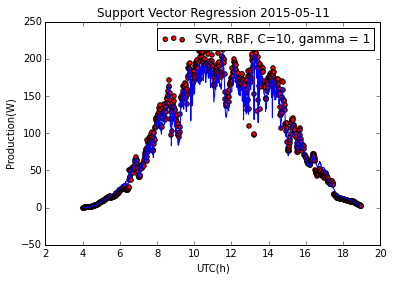
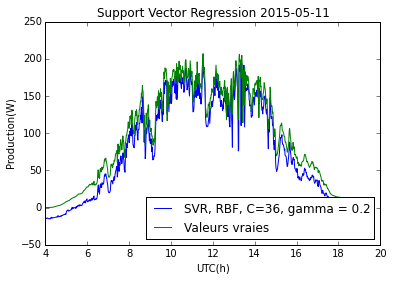
svm update

diff --git a/rapport.tex b/rapport.tex
@@ -165,13 +165,24 @@ RBF R$^{2}$ score : 0.96155168192
 
 Polynomial R$^{2}$ score : 0.553626719589
 
+Trois types de noyaux étaient testé : Lineaire, Polynomiale, et RBF. Visiblement, celui avec le RBF marche le mieux.
+
 Un tuning des parametres montre que les deux parametres intrinsique à SVM (C et gamma), optimales pour la situation, sont gamma = 0.2 et C = 36. 
 
 \includegraphics[width=\textwidth/2]{./svmselectgamma.png}
 
 \includegraphics[width=\textwidth/2]{./svmselectc.png}
 
+\includegraphics[width=\textwidth/2]{./11maysvm.png}
+
 Le temps pris pour le tuning de SVM à ce C et ce gamma était dans les environs de 45 minutes, avec un erreur de 32.8321480128. 
+
+R2 Score, C=36, Gamma= 0.2
+0.967515076885
+RMS, C=36, Gamma= 0.2
+164.404924307
+sqrt of RMS, C=36, Gamma= 0.2
+12.8220483663
 
 \subsection{Random Forest}
 Rerum necessitatibus quis voluptate enim doloribus dicta. Ut optio expedita est
